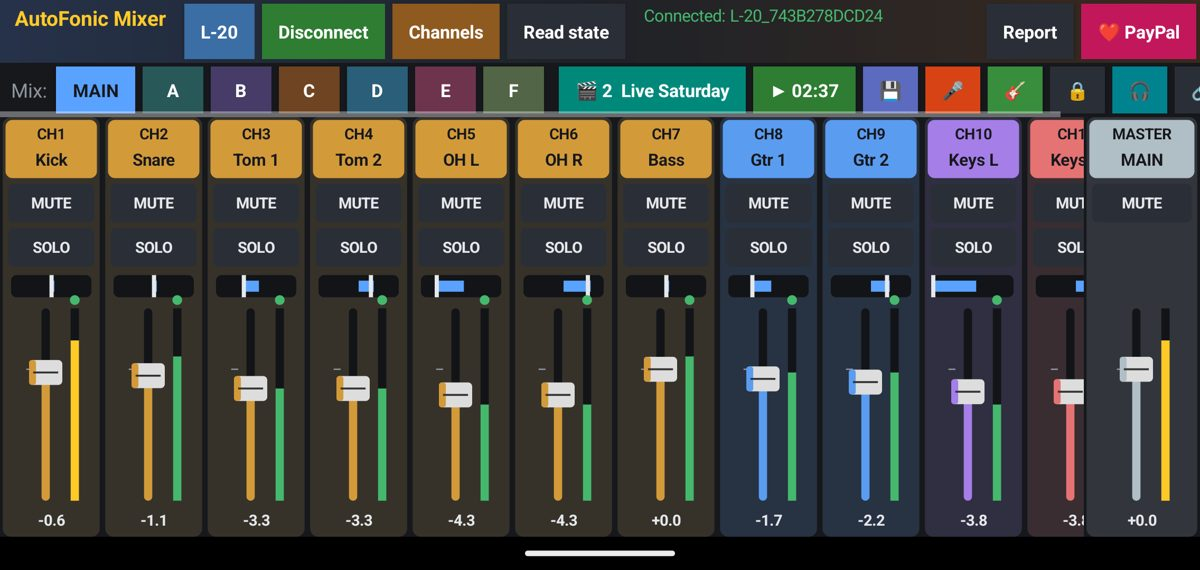
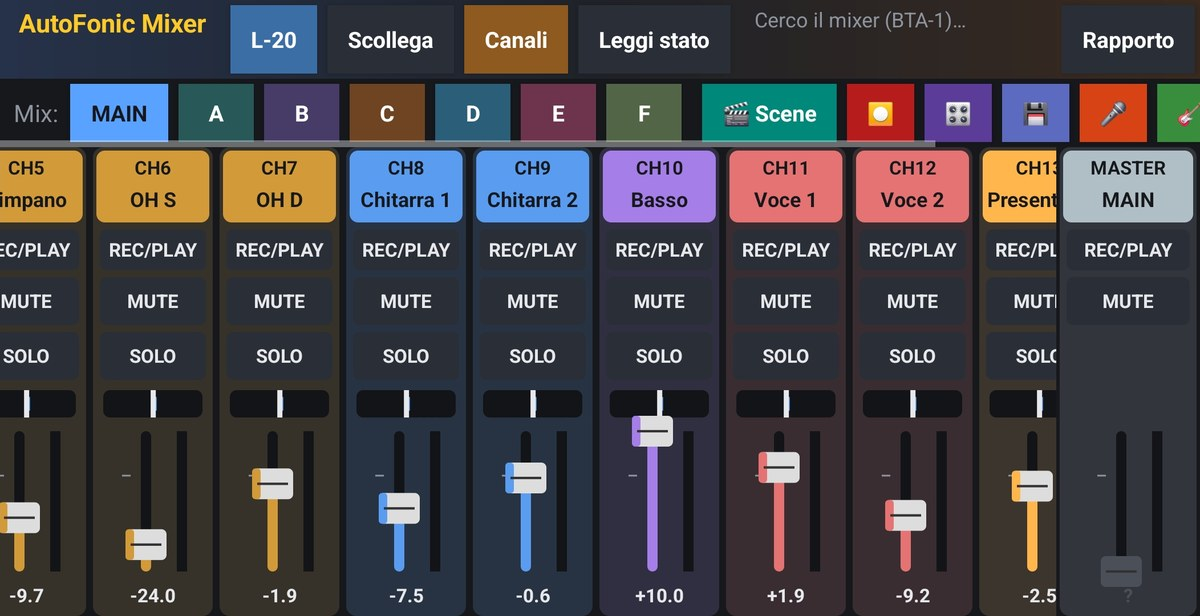
Website: Behringer / Midas in title, description and preview image (EN and IT); new Android screenshot without PayPal
Claude-Session: https://claude.ai/code/session_01U8W5CNsYKxYqECJ5q9Evsb

diff --git a/docs/index.html b/docs/index.html
@@ -3,17 +3,17 @@
 <head>
 <meta charset="utf-8">
 <meta name="viewport" content="width=device-width, initial-scale=1">
-<title>AutoFonic Mixer – ZOOM LiveTrak app for Android and PC (L-20, L-20R, L12next, L6)</title>
-<meta name="description" content="Control your ZOOM LiveTrak L-20, L-20R, L12next, L6 and L6max from an Android phone or a Windows, Linux or Mac PC: faders, EQ, monitor mixes, effect returns, scenes, recorder, sound check and auto mix. ZOOM's own app is iOS only.">
+<title>AutoFonic Mixer – app for ZOOM LiveTrak and Behringer X Air / X32 (Android and PC)</title>
+<meta name="description" content="Control your ZOOM LiveTrak L-20, L-20R, L12next, L6 and L6max from an Android phone or a Windows, Linux or Mac PC, and your Behringer X Air (XR12, XR16, XR18), X32 or Midas MR18 / M32 from the PC: faders, EQ, monitor mixes, scenes, sound check and auto mix. ZOOM's own app is iOS only.">
 <meta name="keywords" content="Behringer XR18 app, Behringer X32 app, X Air XR12 XR16 control Linux, Midas M32 MR18 app, ZOOM L-20 app Android, ZOOM L-20R app, L-20R control Android, ZOOM LiveTrak app, L12next app Android, ZOOM L6 app, LiveTrak remote control, L-20 Control Android, ZOOM mixer app Windows">
 <link rel="canonical" href="https://francescorizzo-cyber.github.io/autofonic-mixer/">
 <link rel="alternate" hreflang="en" href="https://francescorizzo-cyber.github.io/autofonic-mixer/">
 <link rel="alternate" hreflang="it" href="https://francescorizzo-cyber.github.io/autofonic-mixer/it/">
 <link rel="alternate" hreflang="x-default" href="https://francescorizzo-cyber.github.io/autofonic-mixer/">
 <meta property="og:type" content="website">
-<meta property="og:title" content="AutoFonic Mixer – ZOOM LiveTrak app for Android and PC">
-<meta property="og:description" content="The ZOOM L-20 / L-20R, L12next and L6 app for Android, Windows, Linux and Mac. Faders, EQ, monitor mixes, scenes, recorder, sound check and auto mix.">
-<meta property="og:image" content="https://francescorizzo-cyber.github.io/autofonic-mixer/img/autofonic-zoom-livetrak-app.jpg">
+<meta property="og:title" content="AutoFonic Mixer – app for ZOOM LiveTrak and Behringer X Air / X32">
+<meta property="og:description" content="ZOOM L-20 / L-20R, L12next and L6 from Android and PC; Behringer XR12, XR16, XR18, X32 and Midas MR18 / M32 from the PC. Faders, EQ, monitor mixes, scenes, sound check and auto mix.">
+<meta property="og:image" content="https://francescorizzo-cyber.github.io/autofonic-mixer/img/autofonic-mixer-zoom-behringer.jpg">
 <meta property="og:url" content="https://francescorizzo-cyber.github.io/autofonic-mixer/">
 <meta name="twitter:card" content="summary_large_image">
 <script type="application/ld+json">
@@ -23,8 +23,8 @@
   "name": "AutoFonic Mixer",
   "operatingSystem": "Android, Windows, Linux, macOS",
   "applicationCategory": "MultimediaApplication",
-  "description": "Remote control app for ZOOM LiveTrak mixers L-20, L-20R, L12next, L6 and L6max: faders, EQ, monitor mixes, effect returns, scenes, SD recorder, sound check and automatic mix.",
-  "image": "https://francescorizzo-cyber.github.io/autofonic-mixer/img/autofonic-zoom-livetrak-app.jpg",
+  "description": "Remote control app for ZOOM LiveTrak mixers L-20, L-20R, L12next, L6 and L6max and, on the PC, Behringer X Air XR12 / XR16 / XR18, X32 and Midas MR18 / M32: faders, EQ, monitor mixes, effect returns, scenes, SD recorder, sound check and automatic mix.",
+  "image": "https://francescorizzo-cyber.github.io/autofonic-mixer/img/autofonic-mixer-zoom-behringer.jpg",
   "downloadUrl": "https://play.google.com/store/apps/details?id=com.autofonic.mixer",
   "offers": {"@type": "Offer", "price": "0", "priceCurrency": "EUR", "description": "Free trial / free PC demo"},
   "author": {"@type": "Person", "name": "Francesco Rizzo"}
@@ -81,7 +81,7 @@ small{color:var(--muted)}a{color:var(--blue)}
 </div>
 </header>
 
-<img src="img/autofonic-zoom-livetrak-app.jpg" width="1280" height="640" alt="AutoFonic Mixer: ZOOM LiveTrak L-20 and L12next control app on Android phone and PC">
+<img src="img/autofonic-mixer-zoom-behringer.jpg" width="1280" height="640" alt="AutoFonic Mixer: control app for ZOOM LiveTrak and Behringer X Air / X32 on Android phone and PC">
 
 <h2>Supported mixers</h2>
 <p class="chips"><span>L12next</span><span>L-20</span><span>L-20R</span><span>L6</span><span>L6max</span><span>Behringer XR12</span><span>XR16</span><span>XR18</span><span>X32</span><span>Midas MR18</span><span>M32</span></p>
@@ -97,7 +97,7 @@ small{color:var(--muted)}a{color:var(--blue)}
 
 <h2>What you can do</h2>
 <div class="grid">
-<div class="card"><img src="img/zoom-l20-android-app-mixer.jpg" alt="ZOOM L-20 Android app: faders, mute, solo, meters, scenes and recorder time" loading="lazy"><p><strong>All the faders in your hand.</strong> Faders, pan, mute, solo, meters and SIG lights for every channel, stereo channels and effect returns. Perfect for the <strong>L-20R, which has no faders</strong>.</p></div>
+<div class="card"><img src="img/zoom-l20-android-app-mixer.jpg" alt="ZOOM L-20 Android app: faders, mute, solo, REC/PLAY, monitor mixes A–F and scenes" loading="lazy"><p><strong>All the faders in your hand.</strong> Faders, pan, mute, solo, meters and SIG lights for every channel, stereo channels and effect returns. Perfect for the <strong>L-20R, which has no faders</strong>.</p></div>
 <div class="card"><img src="img/zoom-l20-android-app-channel.jpg" alt="ZOOM L-20 channel page in the app: EQ, low cut, EFX sends" loading="lazy"><p><strong>Every channel setting.</strong> 3-band EQ with mid frequency, low cut, polarity, EQ OFF, EFX 1 and 2 sends, monitor mixes A–F for each musician.</p></div>
 <div class="card"><img src="img/zoom-livetrak-pc-app.jpg" alt="ZOOM LiveTrak control program for Windows, Linux and Mac" loading="lazy"><p><strong>On the PC too.</strong> Windows, Linux and Mac, with scenes, the SD recorder (REC/PLAY per channel, play, stop, time) and the full mixer state read from the desk.</p></div>
 <div class="card"><img src="img/livetrak-sound-check.jpg" alt="Full-screen sound check for ZOOM LiveTrak" loading="lazy"><p><strong>A sound engineer inside.</strong> On the PC, a full-screen sound check readable from behind the drums, and an assistant that listens to every channel over USB and balances the mix while you play.</p></div>

diff --git a/docs/it/index.html b/docs/it/index.html
@@ -3,17 +3,17 @@
 <head>
 <meta charset="utf-8">
 <meta name="viewport" content="width=device-width, initial-scale=1">
-<title>AutoFonic Mixer – app per ZOOM LiveTrak su Android e PC (L-20, L-20R, L12next, L6)</title>
-<meta name="description" content="Comanda il tuo ZOOM LiveTrak L-20, L-20R, L12next, L6 e L6max dal telefono Android o da un PC Windows, Linux o Mac: fader, EQ, mix monitor, ritorni effetti, scene, registratore, sound check e mix automatico. L'app di ZOOM esiste solo per iOS.">
+<title>AutoFonic Mixer – app per ZOOM LiveTrak e Behringer X Air / X32 (Android e PC)</title>
+<meta name="description" content="Comanda il tuo ZOOM LiveTrak L-20, L-20R, L12next, L6 e L6max dal telefono Android o da un PC Windows, Linux o Mac, e il tuo Behringer X Air (XR12, XR16, XR18), X32 o Midas MR18 / M32 dal PC: fader, EQ, mix monitor, scene, sound check e mix automatico. L'app di ZOOM esiste solo per iOS.">
 <meta name="keywords" content="app Behringer XR18, app Behringer X32, controllare X Air XR12 XR16 da Linux, app Midas M32 MR18, app ZOOM L-20 Android, app ZOOM L-20R, controllare L-20R da Android, app ZOOM LiveTrak, app L12next Android, app ZOOM L6, telecomando LiveTrak, L-20 Control Android, app mixer ZOOM Windows">
 <link rel="canonical" href="https://francescorizzo-cyber.github.io/autofonic-mixer/it/">
 <link rel="alternate" hreflang="en" href="https://francescorizzo-cyber.github.io/autofonic-mixer/">
 <link rel="alternate" hreflang="it" href="https://francescorizzo-cyber.github.io/autofonic-mixer/it/">
 <link rel="alternate" hreflang="x-default" href="https://francescorizzo-cyber.github.io/autofonic-mixer/">
 <meta property="og:type" content="website">
-<meta property="og:title" content="AutoFonic Mixer – app per ZOOM LiveTrak su Android e PC">
-<meta property="og:description" content="L'app per ZOOM L-20 / L-20R, L12next e L6 su Android, Windows, Linux e Mac. Fader, EQ, mix monitor, scene, registratore, sound check e mix automatico.">
-<meta property="og:image" content="https://francescorizzo-cyber.github.io/autofonic-mixer/img/autofonic-zoom-livetrak-app.jpg">
+<meta property="og:title" content="AutoFonic Mixer – app per ZOOM LiveTrak e Behringer X Air / X32">
+<meta property="og:description" content="ZOOM L-20 / L-20R, L12next e L6 da Android e PC; Behringer XR12, XR16, XR18, X32 e Midas MR18 / M32 dal PC. Fader, EQ, mix monitor, scene, sound check e mix automatico.">
+<meta property="og:image" content="https://francescorizzo-cyber.github.io/autofonic-mixer/img/autofonic-mixer-zoom-behringer-it.jpg">
 <meta property="og:url" content="https://francescorizzo-cyber.github.io/autofonic-mixer/it/">
 <meta name="twitter:card" content="summary_large_image">
 <script type="application/ld+json">
@@ -67,7 +67,7 @@ small{color:var(--muted)}a{color:var(--blue)}
 </div>
 </header>
 
-<img src="../img/autofonic-zoom-livetrak-app.jpg" width="1280" height="640" alt="AutoFonic Mixer: app per comandare ZOOM LiveTrak L-20 e L12next da telefono Android e PC">
+<img src="../img/autofonic-mixer-zoom-behringer-it.jpg" width="1280" height="640" alt="AutoFonic Mixer: app per comandare ZOOM LiveTrak e Behringer X Air / X32 da telefono Android e PC">
 
 <h2>Mixer supportati</h2>
 <p class="chips"><span>L12next</span><span>L-20</span><span>L-20R</span><span>L6</span><span>L6max</span><span>Behringer XR12</span><span>XR16</span><span>XR18</span><span>X32</span><span>Midas MR18</span><span>M32</span></p>
@@ -83,7 +83,7 @@ small{color:var(--muted)}a{color:var(--blue)}
 
 <h2>Cosa puoi fare</h2>
 <div class="grid">
-<div class="card"><img src="../img/zoom-l20-android-app-mixer.jpg" alt="App ZOOM L-20 per Android: fader, mute, solo, meter, scene e tempo del registratore" loading="lazy"><p><strong>Tutti i fader in mano.</strong> Fader, pan, mute, solo, meter e LED SIG di ogni canale, canali stereo e ritorni effetti. Perfetto per l'<strong>L-20R, che non ha fader</strong>.</p></div>
+<div class="card"><img src="../img/zoom-l20-android-app-mixer.jpg" alt="App ZOOM L-20 per Android: fader, mute, solo, REC/PLAY, mix monitor A–F e scene" loading="lazy"><p><strong>Tutti i fader in mano.</strong> Fader, pan, mute, solo, meter e LED SIG di ogni canale, canali stereo e ritorni effetti. Perfetto per l'<strong>L-20R, che non ha fader</strong>.</p></div>
 <div class="card"><img src="../img/zoom-l20-android-app-channel.jpg" alt="Pagina canale del ZOOM L-20 nell'app: EQ, low cut, mandate EFX" loading="lazy"><p><strong>Ogni regolazione del canale.</strong> EQ a 3 bande con frequenza dei medi, low cut, fase, EQ OFF, mandate EFX 1 e 2, mix monitor A–F per ogni musicista.</p></div>
 <div class="card"><img src="../img/zoom-livetrak-pc-app.jpg" alt="Programma per comandare ZOOM LiveTrak da Windows, Linux e Mac" loading="lazy"><p><strong>Anche sul PC.</strong> Windows, Linux e Mac, con scene, registratore SD (REC/PLAY per canale, play, stop, tempo) e lettura di tutto lo stato del mixer.</p></div>
 <div class="card"><img src="../img/livetrak-sound-check.jpg" alt="Sound check a tutto schermo per ZOOM LiveTrak" loading="lazy"><p><strong>Un fonico dentro.</strong> Sul PC, sound check a tutto schermo leggibile da dietro la batteria, e un assistente che ascolta ogni canale via USB e bilancia il mix mentre suoni.</p></div>
